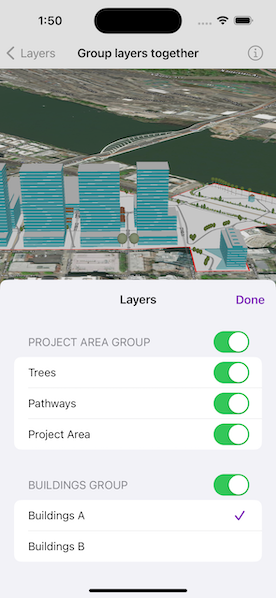
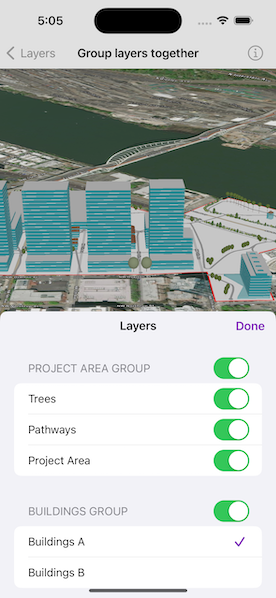
Add fraction presentation.
https://github.com/Esri/arcgis-maps-sdk-swift-samples/pull/268#discussion_r1329016967

diff --git a/Shared/Samples/Group layers together/GroupLayersTogetherView.swift b/Shared/Samples/Group layers together/GroupLayersTogetherView.swift
@@ -54,11 +54,26 @@ struct GroupLayersTogetherView: View {
             }
             .toolbar {
                 ToolbarItem(placement: .bottomBar) {
-                    Button("Layers") {
+                    let layersButton = Button("Layers") {
                         isShowingLayersSheet = true
                     }
-                    .sheet(isPresented: $isShowingLayersSheet, detents: [.medium]) {
-                        layersList
+                    
+                    if #available(iOS 16, *) {
+                        layersButton
+                            .popover(isPresented: $isShowingLayersSheet, arrowEdge: .bottom) {
+                                layersList
+                                    .presentationDetents([.fraction(0.5)])
+#if targetEnvironment(macCatalyst)
+                                    .frame(minWidth: 300, minHeight: 270)
+#else
+                                    .frame(minWidth: 320, minHeight: 390)
+#endif
+                            }
+                    } else {
+                        layersButton
+                            .sheet(isPresented: $isShowingLayersSheet, detents: [.medium]) {
+                                layersList
+                            }
                     }
                 }
             }
